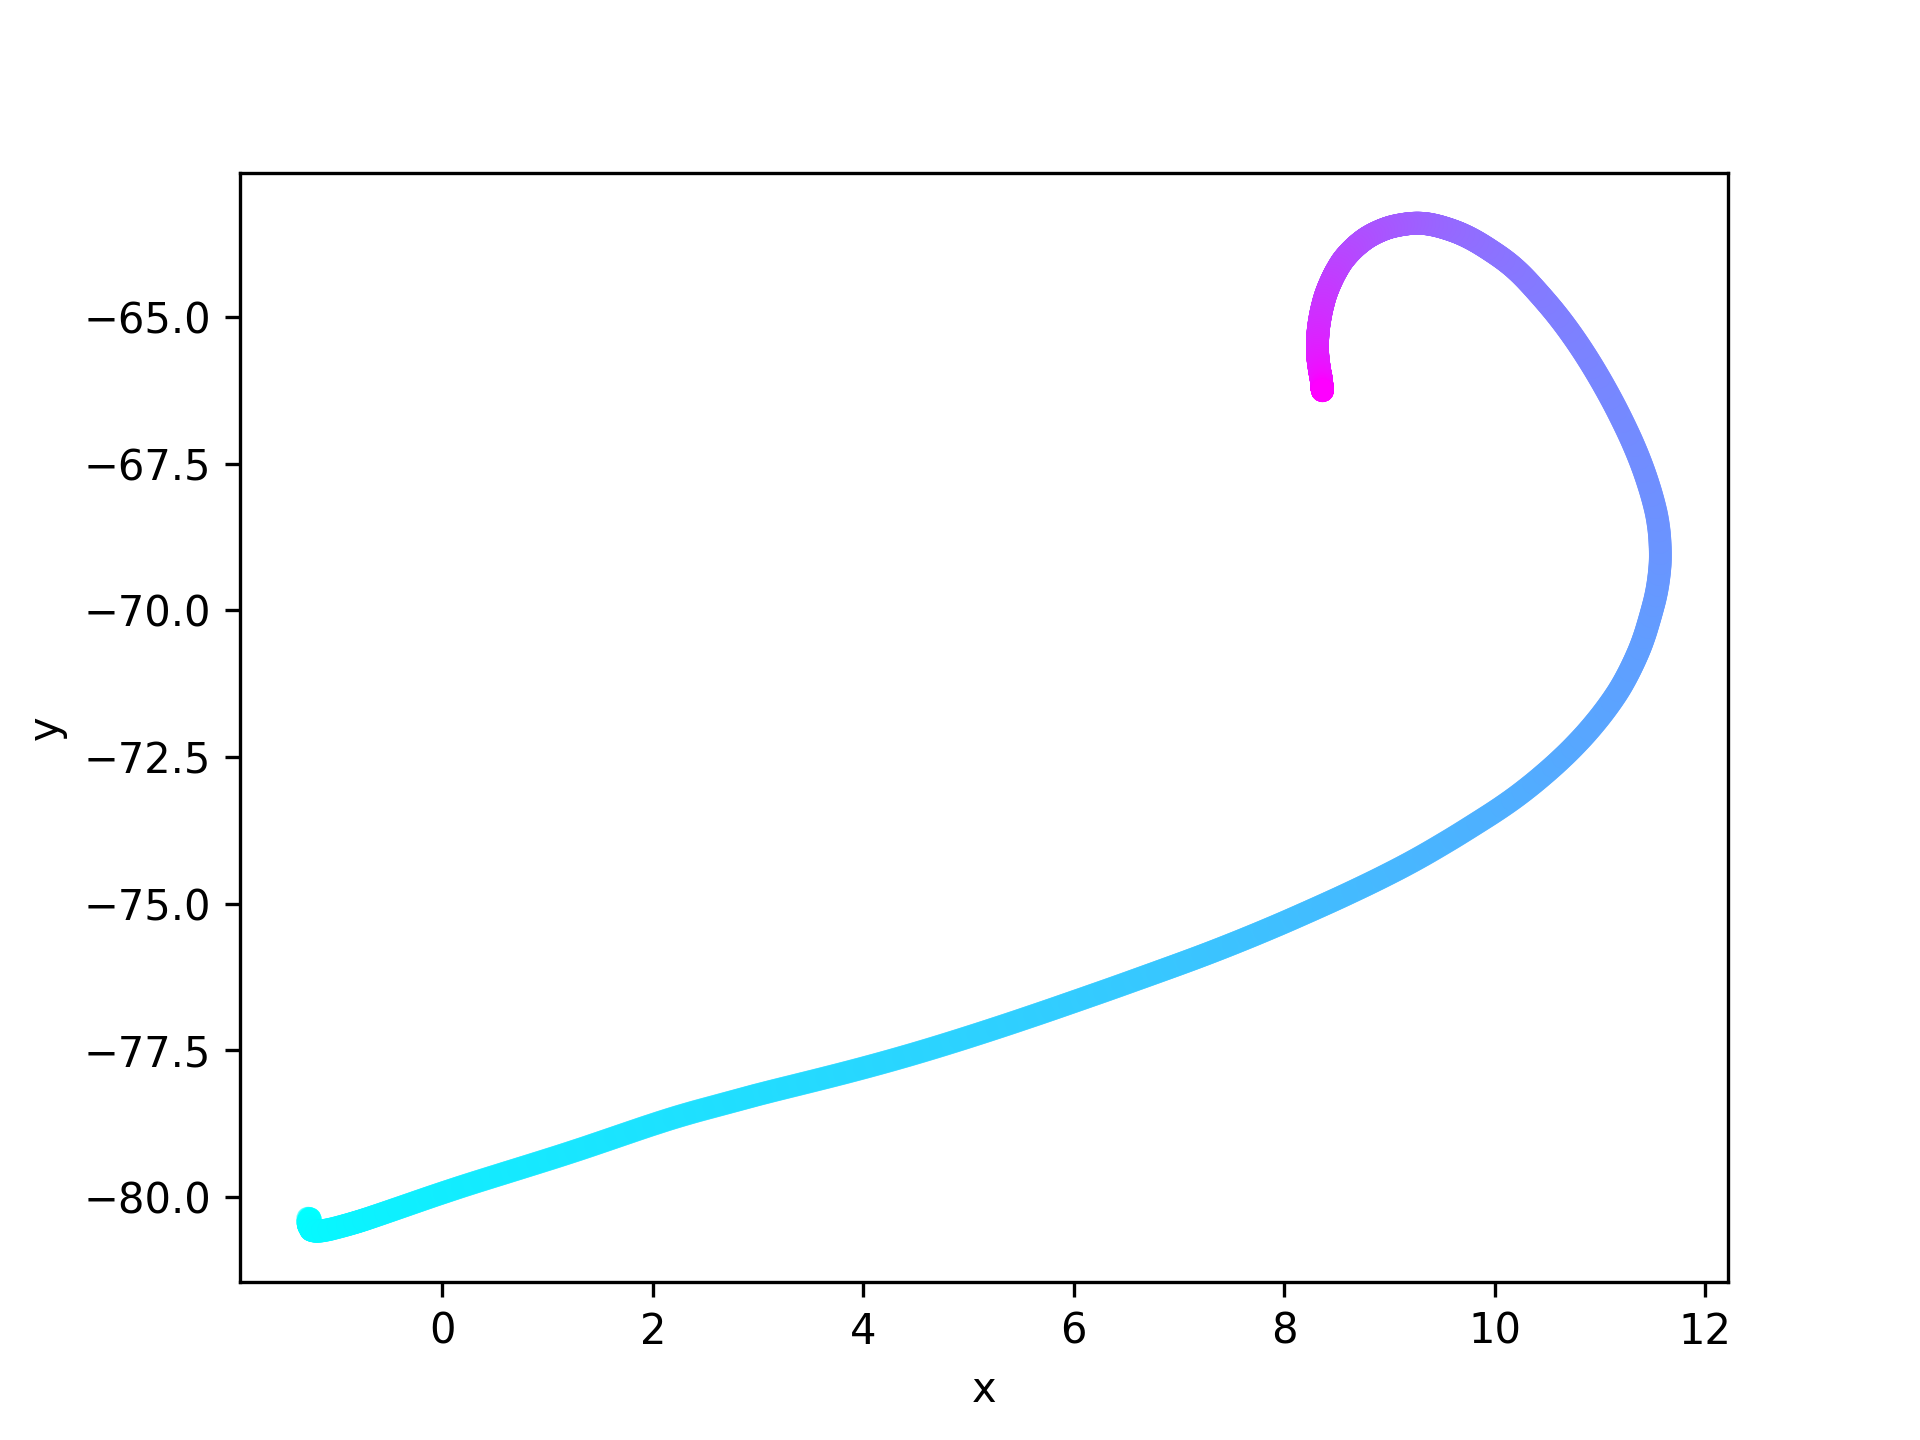
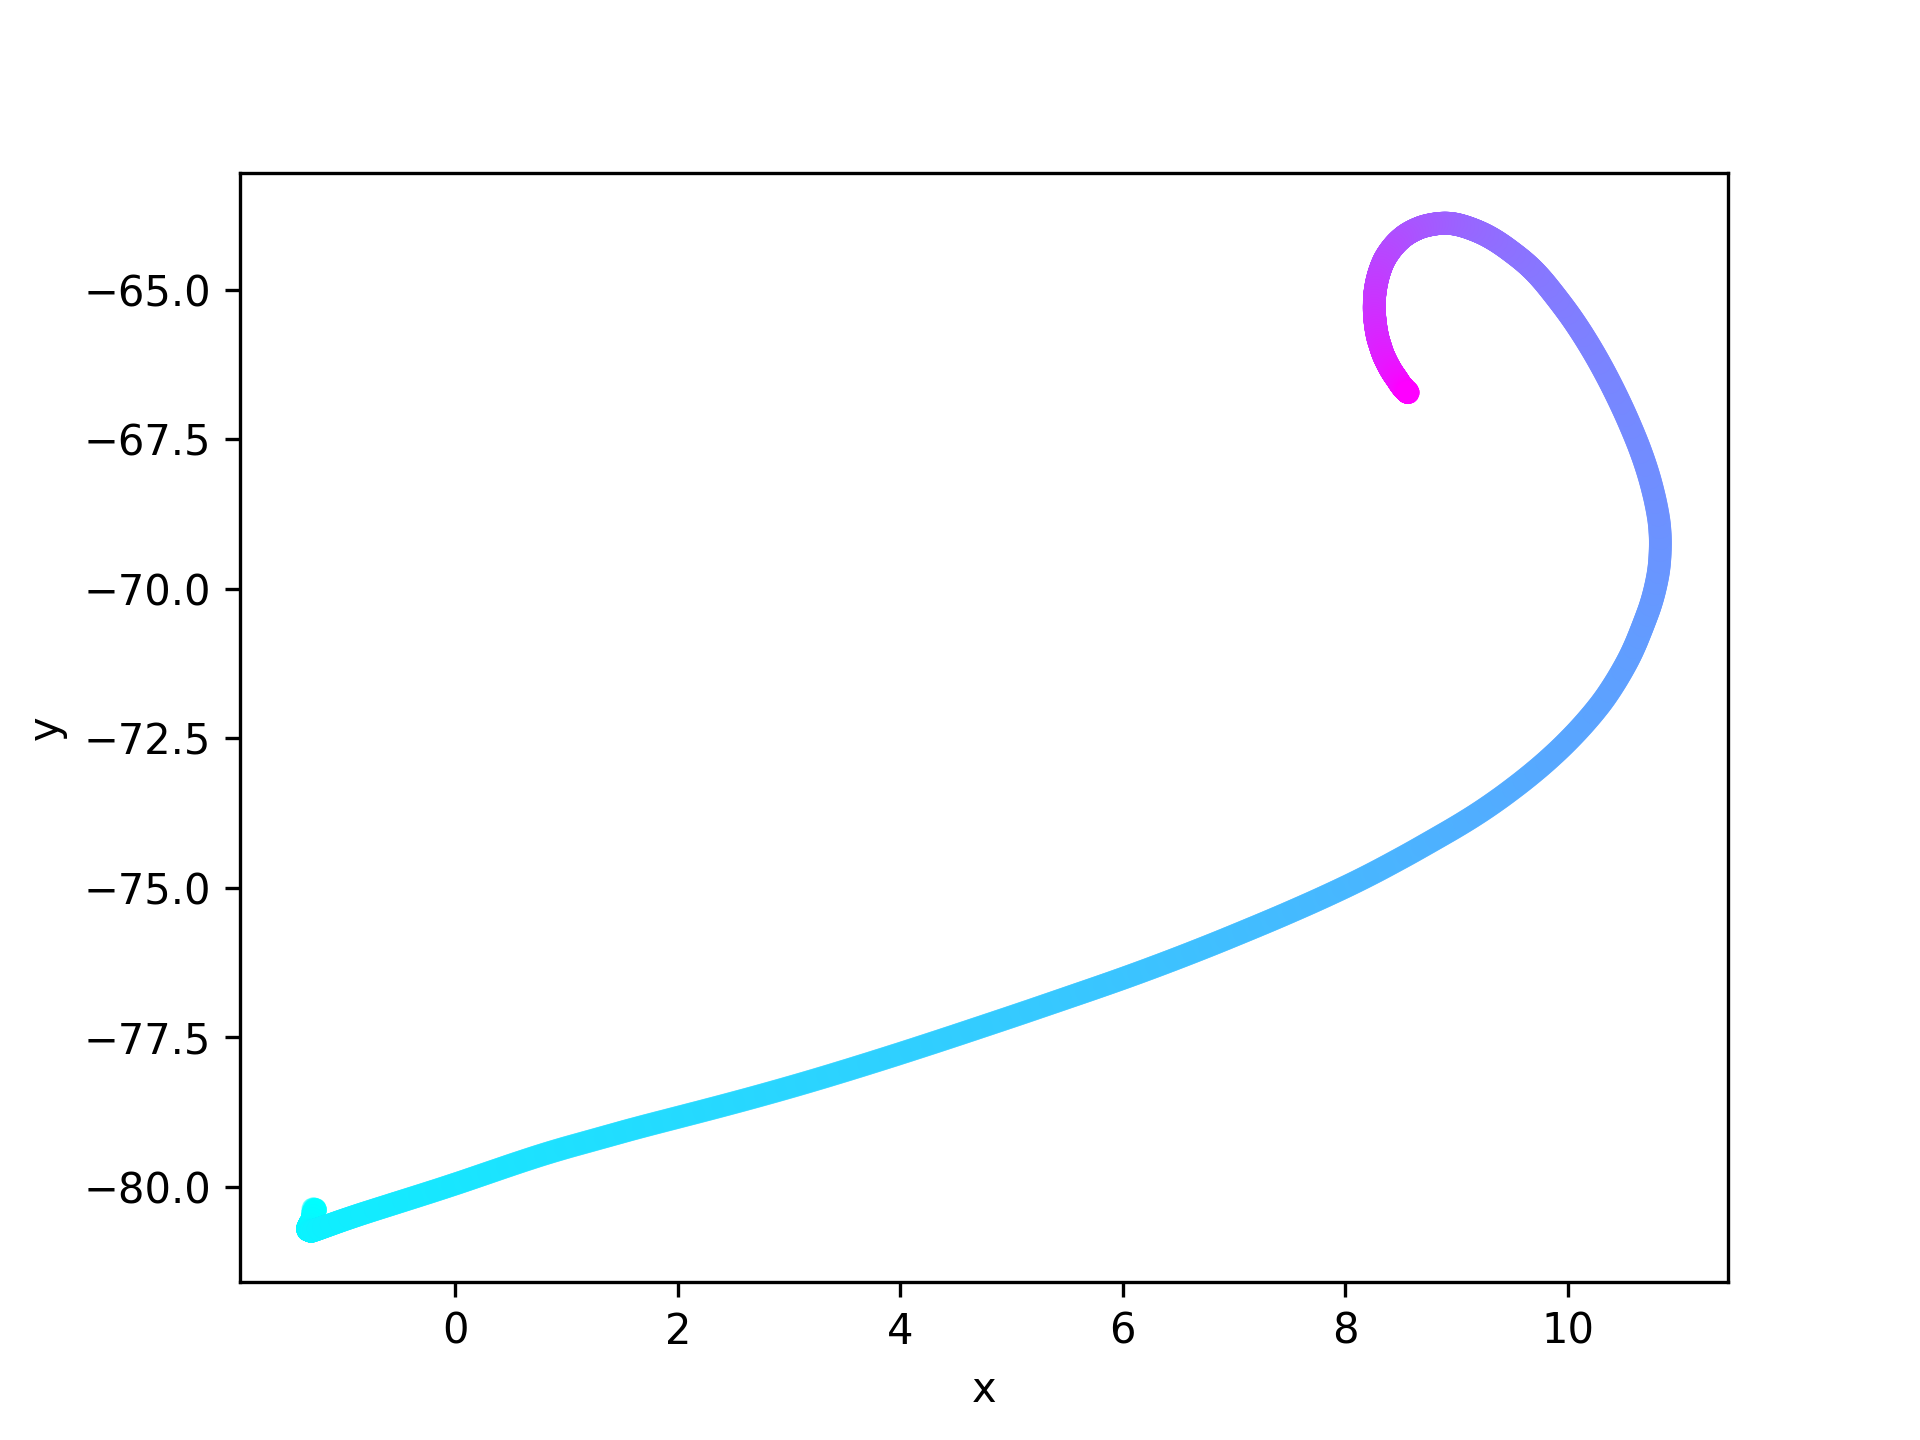
add test1 kalman

diff --git a/get_physical_property.py b/get_physical_property.py
@@ -68,7 +68,6 @@ def construct_physical_property(data_path, imu_timestamps, speed_timestamps, loc
         plt.savefig(os.path.join(
             data_path, f"physics-analysis-imu.png"))
     pos_df = pd.DataFrame(columns=["time", "pos_x", "pos_y"])
-    """
     for timestamp in localizatoin_timestamps:
         try:
             df = pd.read_csv(os.path.join(data_path, "dataset",
@@ -79,7 +78,7 @@ def construct_physical_property(data_path, imu_timestamps, speed_timestamps, loc
                 time, df[0][0], df[1][0]]
         except FileNotFoundError:
             pass
-    """
+    pos_df = pos_df.sort_values(by=['time'], ignore_index=True)
     result_df = pd.DataFrame(columns=["time", "pos_x", "pos_y"])
     for timestamp in all_timestamps:
         time = pd.Timestamp(
@@ -89,11 +88,13 @@ def construct_physical_property(data_path, imu_timestamps, speed_timestamps, loc
     result_df = result_df.sort_values(by=['time'], ignore_index=True)
     if debug:
         print(result_df)
+        """
     pred_pos_df = pd.read_csv(os.path.join(data_path , "pred_pose.txt"),names=["x" , "y"] , sep="\t")
     pos_df["pos_x"] = pred_pos_df["x"]
     pos_df["pos_y"] = pred_pos_df["y"]
     pos_df["time"] = result_df["time"]
     pos_df = pos_df.sort_values(by=['time'], ignore_index=True)
+    """
     if debug:
         print(pos_df)
     if debug:
@@ -186,7 +187,7 @@ def construct_physical_property(data_path, imu_timestamps, speed_timestamps, loc
                    [0, 0, 0, 0, 0, 1]
                    ])
     H = np.diag([1, 1, 1, 1, 1, 1])
-    R = np.diag([0.1**2, 0.1**2, 0.5**2, 0.5**2, 0.05**2, 0.05**2])
+    R = np.diag([0.1**2, 0.1**2, 0.3**2, 0.3**2, 0.05**2, 0.05**2])
     sj = 0.1
     Q = np.matrix([[(dt**6)/36, 0, (dt**5)/12, 0, (dt**4)/6, 0],
                    [0, (dt**6)/36, 0, (dt**5)/12, 0, (dt**4)/6],
@@ -272,4 +273,4 @@ if __name__ == '__main__':
         args.data_path, imu_timestamps, speed_timestamps,  localization_timestamps, all_timestamps, 3000,  True)
     result_df = result_df[["pos_x" ,"pos_y"]]
     result_df.to_csv(os.path.join(
-            args.data_path , "pred2.txt" ),index=False, header=False, sep='\t')
+            args.data_path , "pred_pose_pure_kalman.txt" ),index=False, header=False, sep='\t')
